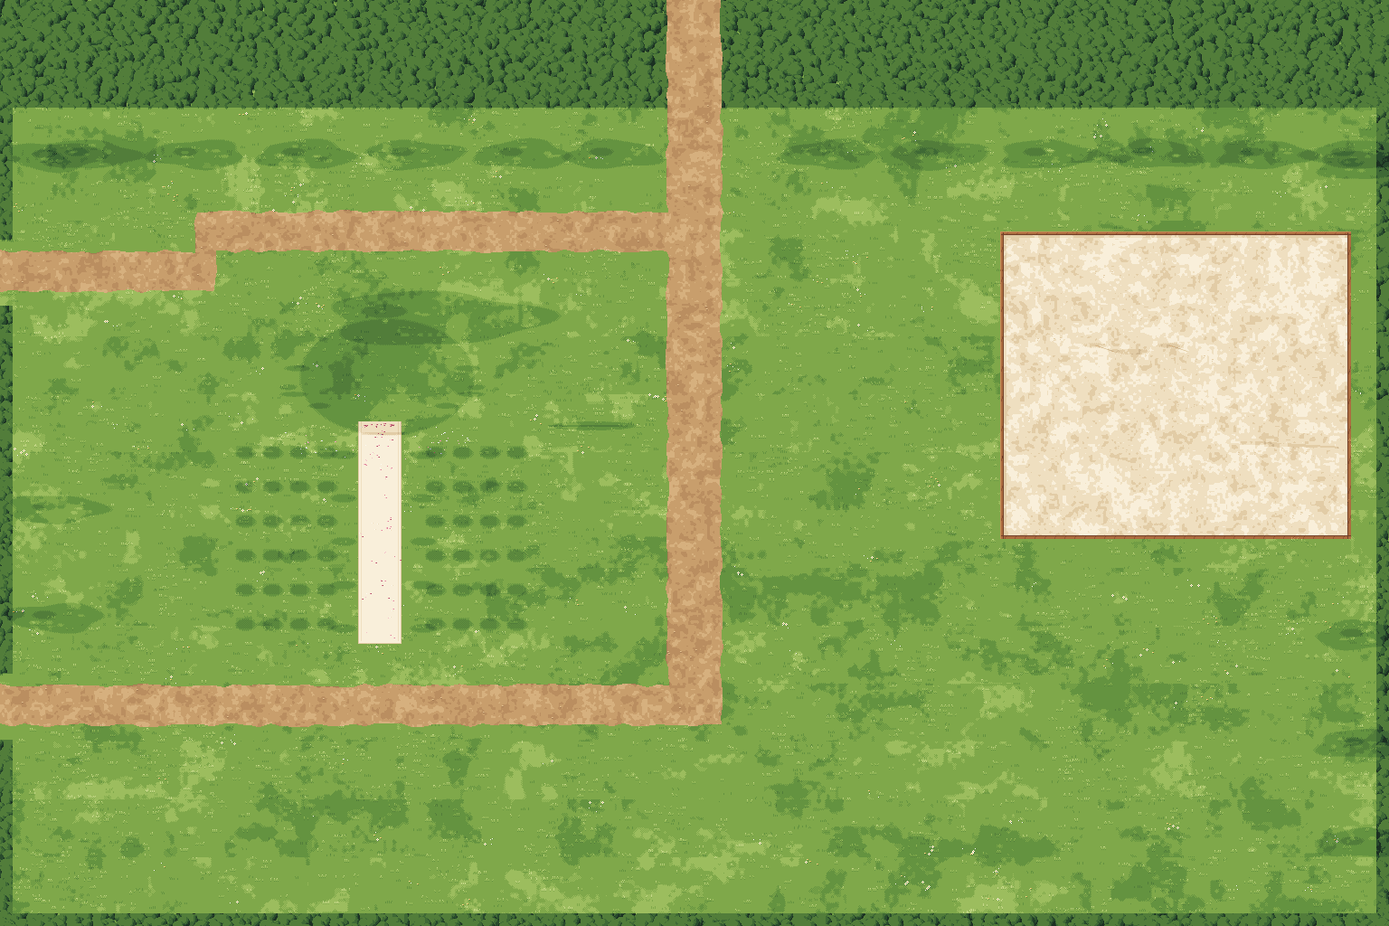
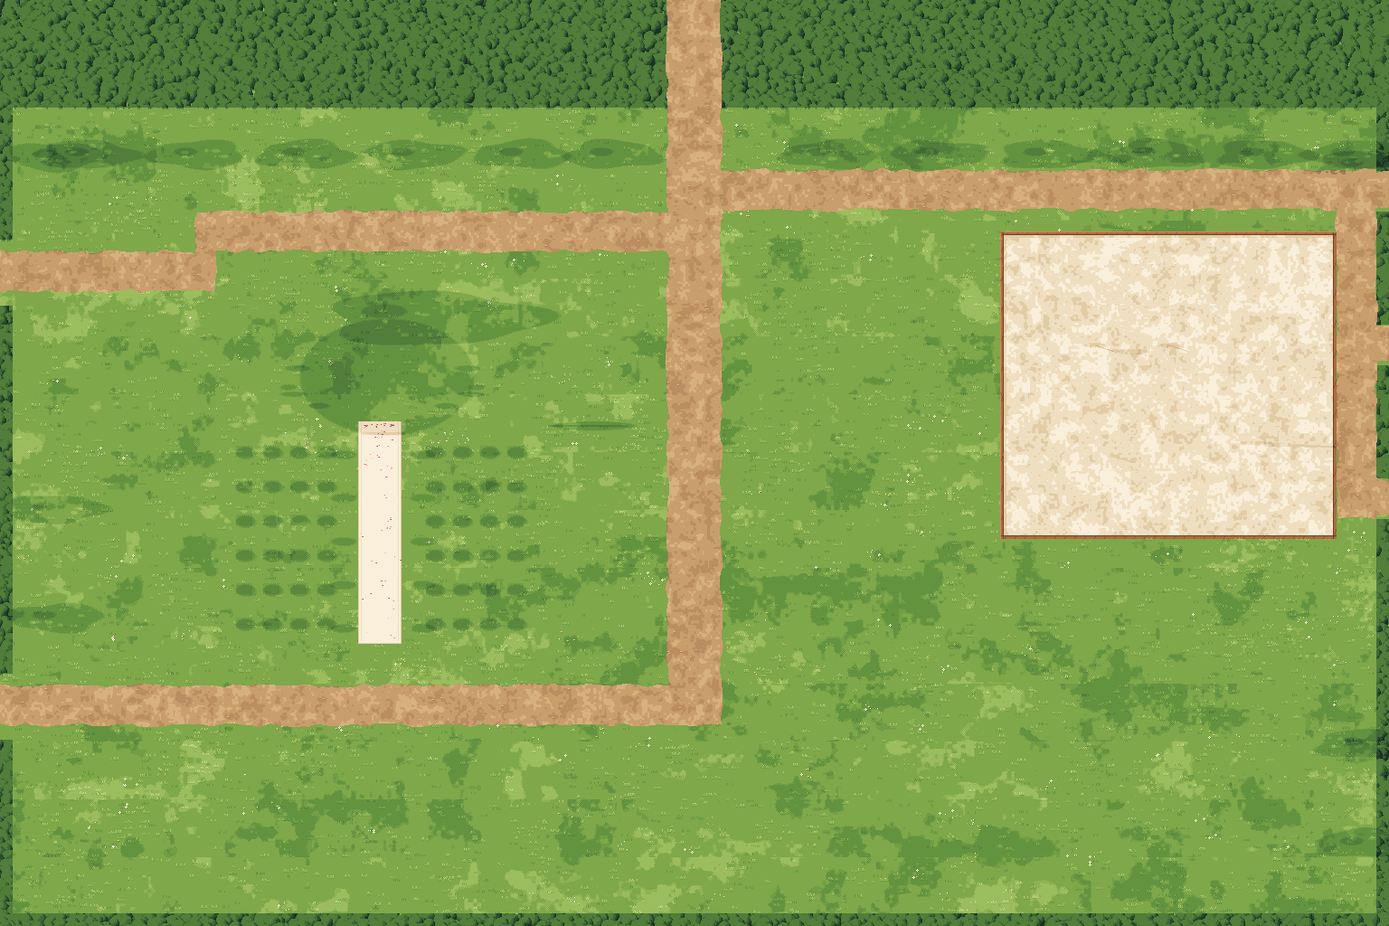
第 65 版接着修（01 G 定，等 03 测过一起出码）：服务员从西门进出、西门补门框、草坪东边三个口拉开接碎石小路
- 宴会厅服务员改从西墙那道门（通后厅、厨房）端菜进出：ambience_55.json 服务员门 (1466,1289) → (70,1300)，生成脚本同步
- 宴会厅西墙那道门照东侧门的样子用代码画门框门板（layered_hall._west_door，量的东侧门五层颜色，左右对称；底图不动，门在东墙就不画）
- 草坪东边三个口拉开到 y 210、380、550：拿掉第三个口上的 tree_28，沙坑东边收窄 16，画一段碎石小路（中间南北路 → 沙坑北边 → 顺东边往南），
  东边灌木边只在三个口留缺口；口挪进缺口里头、圈 18，顺着小路走不会误进；两个口到了站在小路上；草坪脚本核对快照换成现在的布局（换前核过重出图一样）
- 草坪测试照新口改；全套客户端 78 过，草坪尺寸表红 0
- 回执补「出码以后接着修」一节（含 03 写的、挪过坐标的 7 份测试清单）

diff --git a/godot/tools/pixel_art/lawn.py b/godot/tools/pixel_art/lawn.py
@@ -1600,7 +1600,7 @@ TREE_SPECIES = {
     "tree_22": "gh", "tree_27": "gh",
     "tree_13": "zh", "tree_14": "gh", "tree_15": "zw", "tree_16": "zh", "tree_17": "gh", "tree_18": "zh",
     "tree_19": "zw", "tree_20": "zh", "tree_21": "gh",
-    "tree_24": "zh", "tree_25": "gh", "tree_28": "zh", "tree_29": "zw", "tree_30": "gh",
+    "tree_24": "zh", "tree_25": "gh", "tree_29": "zw", "tree_30": "gh",   # tree_28 10/4 方案 C 拿掉（草坪东边第三个口）
     "wed_tree": "zh",
 }
 
@@ -1631,10 +1631,14 @@ def in_rects(x, y, rects):
     return False
 
 
+# 10/4 方案 C（01 G 定）：草坪去后厅、西餐厨房、喷泉广场的三个口在东边（y 210、380、550），东边灌木边在三个口那儿留缺口；
+# 加一段碎石小路接到原来的路上——从中间那条南北路往东、沿沙坑北边到东边，再顺着东边往南到第三个口；沙坑东边收窄 16 给这条路
 SHRUB = [[0, 0, 740, 116], [796, 0, 1536, 116], [0, 116, 14, 262], [0, 338, 14, 742], [0, 818, 14, 1024],
-         [1522, 116, 1536, 1024], [0, 1010, 1536, 1024]]
-PATHS = [[0, 758, 798, 802], [738, 0, 798, 802], [0, 278, 238, 322], [216, 234, 742, 278], [216, 274, 238, 322]]
-SAND = [1106, 256, 1494, 596]
+         [1522, 116, 1536, 186], [1522, 234, 1536, 356], [1522, 404, 1536, 526], [1522, 574, 1536, 1024], [0, 1010, 1536, 1024]]
+PATHS = [[0, 758, 798, 802], [738, 0, 798, 802], [0, 278, 238, 322], [216, 234, 742, 278], [216, 274, 238, 322],
+         [798, 188, 1522, 232], [1478, 188, 1522, 574],
+         [1508, 190, 1536, 230], [1508, 360, 1536, 400], [1508, 530, 1536, 570]]   # 最后三截穿过灌木边缺口到画布边（三个口）
+SAND = [1106, 256, 1478, 596]
 
 
 def background():
@@ -2099,7 +2103,7 @@ def main():
         compose(room, None, items).save(os.path.join(PREVIEW, "lawn_full.png"))
 
 
-LAYOUT_SNAPSHOT = r'''{"flat":[[0,0,1536,1024],[0,116,1536,148],[0,244,1536,276],[0,372,1536,404],[0,500,1536,532],[0,628,1536,660],[0,756,1536,788],[0,884,1536,916],[0,0,740,116],[796,0,1536,116],[0,116,14,262],[0,338,14,742],[0,818,14,1024],[1522,116,1536,1024],[0,1010,1536,1024],[0,758,798,802],[0,762,794,798],[738,0,798,802],[742,0,794,798],[0,278,238,322],[0,282,234,318],[216,234,742,278],[220,238,742,274],[220,274,234,318],[1106,256,1494,596],[1110,260,1490,592]],"items":{"chair_0_L1":{"h":46,"rect":[349,492,371,506],"top":"#f4f1ea","type":"box"},"chair_0_L2":{"h":46,"rect":[319,492,341,506],"top":"#f4f1ea","type":"box"},"chair_0_L3":{"h":46,"rect":[289,492,311,506],"top":"#f4f1ea","type":"box"},"chair_0_L4":{"h":46,"rect":[259,492,281,506],"top":"#f4f1ea","type":"box"},"chair_0_R1":{"h":46,"rect":[469,492,491,506],"top":"#f4f1ea","type":"box"},"chair_0_R2":{"h":46,"rect":[499,492,521,506],"top":"#f4f1ea","type":"box"},"chair_0_R3":{"h":46,"rect":[529,492,551,506],"top":"#f4f1ea","type":"box"},"chair_0_R4":{"h":46,"rect":[559,492,581,506],"top":"#f4f1ea","type":"box"},"chair_1_L1":{"h":46,"rect":[349,530,371,544],"top":"#f4f1ea","type":"box"},"chair_1_L2":{"h":46,"rect":[319,530,341,544],"top":"#f4f1ea","type":"box"},"chair_1_L3":{"h":46,"rect":[289,530,311,544],"top":"#f4f1ea","type":"box"},"chair_1_L4":{"h":46,"rect":[259,530,281,544],"top":"#f4f1ea","type":"box"},"chair_1_R1":{"h":46,"rect":[469,530,491,544],"top":"#f4f1ea","type":"box"},"chair_1_R2":{"h":46,"rect":[499,530,521,544],"top":"#f4f1ea","type":"box"},"chair_1_R3":{"h":46,"rect":[529,530,551,544],"top":"#f4f1ea","type":"box"},"chair_1_R4":{"h":46,"rect":[559,530,581,544],"top":"#f4f1ea","type":"box"},"chair_2_L1":{"h":46,"rect":[349,568,371,582],"top":"#f4f1ea","type":"box"},"chair_2_L2":{"h":46,"rect":[319,568,341,582],"top":"#f4f1ea","type":"box"},"chair_2_L3":{"h":46,"rect":[289,568,311,582],"top":"#f4f1ea","type":"box"},"chair_2_L4":{"h":46,"rect":[259,568,281,582],"top":"#f4f1ea","type":"box"},"chair_2_R1":{"h":46,"rect":[469,568,491,582],"top":"#f4f1ea","type":"box"},"chair_2_R2":{"h":46,"rect":[499,568,521,582],"top":"#f4f1ea","type":"box"},"chair_2_R3":{"h":46,"rect":[529,568,551,582],"top":"#f4f1ea","type":"box"},"chair_2_R4":{"h":46,"rect":[559,568,581,582],"top":"#f4f1ea","type":"box"},"chair_3_L1":{"h":46,"rect":[349,606,371,620],"top":"#f4f1ea","type":"box"},"chair_3_L2":{"h":46,"rect":[319,606,341,620],"top":"#f4f1ea","type":"box"},"chair_3_L3":{"h":46,"rect":[289,606,311,620],"top":"#f4f1ea","type":"box"},"chair_3_L4":{"h":46,"rect":[259,606,281,620],"top":"#f4f1ea","type":"box"},"chair_3_R1":{"h":46,"rect":[469,606,491,620],"top":"#f4f1ea","type":"box"},"chair_3_R2":{"h":46,"rect":[499,606,521,620],"top":"#f4f1ea","type":"box"},"chair_3_R3":{"h":46,"rect":[529,606,551,620],"top":"#f4f1ea","type":"box"},"chair_3_R4":{"h":46,"rect":[559,606,581,620],"top":"#f4f1ea","type":"box"},"chair_4_L1":{"h":46,"rect":[349,644,371,658],"top":"#f4f1ea","type":"box"},"chair_4_L2":{"h":46,"rect":[319,644,341,658],"top":"#f4f1ea","type":"box"},"chair_4_L3":{"h":46,"rect":[289,644,311,658],"top":"#f4f1ea","type":"box"},"chair_4_L4":{"h":46,"rect":[259,644,281,658],"top":"#f4f1ea","type":"box"},"chair_4_R1":{"h":46,"rect":[469,644,491,658],"top":"#f4f1ea","type":"box"},"chair_4_R2":{"h":46,"rect":[499,644,521,658],"top":"#f4f1ea","type":"box"},"chair_4_R3":{"h":46,"rect":[529,644,551,658],"top":"#f4f1ea","type":"box"},"chair_4_R4":{"h":46,"rect":[559,644,581,658],"top":"#f4f1ea","type":"box"},"chair_5_L1":{"h":46,"rect":[349,682,371,696],"top":"#f4f1ea","type":"box"},"chair_5_L2":{"h":46,"rect":[319,682,341,696],"top":"#f4f1ea","type":"box"},"chair_5_L3":{"h":46,"rect":[289,682,311,696],"top":"#f4f1ea","type":"box"},"chair_5_L4":{"h":46,"rect":[259,682,281,696],"top":"#f4f1ea","type":"box"},"chair_5_R1":{"h":46,"rect":[469,682,491,696],"top":"#f4f1ea","type":"box"},"chair_5_R2":{"h":46,"rect":[499,682,521,696],"top":"#f4f1ea","type":"box"},"chair_5_R3":{"h":46,"rect":[529,682,551,696],"top":"#f4f1ea","type":"box"},"chair_5_R4":{"h":46,"rect":[559,682,581,696],"top":"#f4f1ea","type":"box"},"dessert_table":{"deco":[{"color":"#f7efe2","rect":[615,396,641,408]},{"color":"#f2a7c3","rect":[618,408,638,422]},{"color":"#f7efe2","rect":[613,422,643,432]},{"color":"#f2d98a","rect":[663,398,673,406]},{"color":"#f2d98a","rect":[659,406,677,416]},{"color":"#f2d98a","rect":[655,416,681,428]}],"h":36,"rect":[606,444,692,470],"top":"#ffffff","type":"box"},"hedge_1":{"deco":[{"color":"#fbf7ee","rect":[368,468,373,472]},{"color":"#fbf7ee","rect":[378,470,383,474]},{"color":"#f2a7c3","rect":[373,476,378,480]}],"h":29,"rect":[364,494,388,504],"top":"#6a9a5c","type":"box"},"hedge_10":{"deco":[{"color":"#fbf7ee","rect":[456,660,461,664]},{"color":"#fbf7ee","rect":[466,662,471,666]},{"color":"#f2a7c3","rect":[461,668,466,672]}],"h":29,"rect":[452,686,476,696],"top":"#6a9a5c","type":"box"},"hedge_2":{"deco":[{"color":"#fbf7ee","rect":[456,468,461,472]},{"color":"#fbf7ee","rect":[466,470,471,474]},{"color":"#f2a7c3","rect":[461,476,466,480]}],"h":29,"rect":[452,494,476,504],"top":"#6a9a5c","type":"box"},"hedge_3":{"deco":[{"color":"#fbf7ee","rect":[368,516,373,520]},{"color":"#fbf7ee","rect":[378,518,383,522]},{"color":"#f2a7c3","rect":[373,524,378,528]}],"h":29,"rect":[364,542,388,552],"top":"#6a9a5c","type":"box"},"hedge_4":{"deco":[{"color":"#fbf7ee","rect":[456,516,461,520]},{"color":"#fbf7ee","rect":[466,518,471,522]},{"color":"#f2a7c3","rect":[461,524,466,528]}],"h":29,"rect":[452,542,476,552],"top":"#6a9a5c","type":"box"},"hedge_5":{"deco":[{"color":"#fbf7ee","rect":[368,564,373,568]},{"color":"#fbf7ee","rect":[378,566,383,570]},{"color":"#f2a7c3","rect":[373,572,378,576]}],"h":29,"rect":[364,590,388,600],"top":"#6a9a5c","type":"box"},"hedge_6":{"deco":[{"color":"#fbf7ee","rect":[456,564,461,568]},{"color":"#fbf7ee","rect":[466,566,471,570]},{"color":"#f2a7c3","rect":[461,572,466,576]}],"h":29,"rect":[452,590,476,600],"top":"#6a9a5c","type":"box"},"hedge_7":{"deco":[{"color":"#fbf7ee","rect":[368,612,373,616]},{"color":"#fbf7ee","rect":[378,614,383,618]},{"color":"#f2a7c3","rect":[373,620,378,624]}],"h":29,"rect":[364,638,388,648],"top":"#6a9a5c","type":"box"},"hedge_8":{"deco":[{"color":"#fbf7ee","rect":[456,612,461,616]},{"color":"#fbf7ee","rect":[466,614,471,618]},{"color":"#f2a7c3","rect":[461,620,466,624]}],"h":29,"rect":[452,638,476,648],"top":"#6a9a5c","type":"box"},"hedge_9":{"deco":[{"color":"#fbf7ee","rect":[368,660,373,664]},{"color":"#fbf7ee","rect":[378,662,383,666]},{"color":"#f2a7c3","rect":[373,668,378,672]}],"h":29,"rect":[364,686,388,696],"top":"#6a9a5c","type":"box"},"slide_chute":{"block":[1396,440,1474,494],"foot":494,"pts":[[1396,398],[1474,480],[1474,494],[1396,418]],"type":"poly"},"slide_tower":{"h":72,"rect":[1372,470,1396,490],"top":"#c0392b","type":"box"},"swing_bar":{"foot":382,"thick":6,"top":270,"type":"beam","x0":1204,"x1":1296},"swing_post_e":{"h":104,"rect":[1288,374,1294,382],"top":"#6d4a38","type":"box"},"swing_post_w":{"h":104,"rect":[1206,374,1212,382],"top":"#6d4a38","type":"box"},"swing_rope_e":{"foot":386,"thick":84,"top":276,"type":"beam","x0":1262,"x1":1264},"swing_rope_w":{"foot":386,"thick":84,"top":276,"type":"beam","x0":1236,"x1":1238},"swing_seat":{"foot":387,"thick":6,"top":358,"type":"beam","x0":1232,"x1":1268},"tree_0":{"h":252,"type":"tree","w":120,"x":80,"y":168},"tree_1":{"h":252,"type":"tree","w":120,"x":200,"y":168},"tree_10":{"h":252,"type":"tree","w":120,"x":1380,"y":168},"tree_11":{"h":252,"type":"tree","w":120,"x":1480,"y":168},"tree_13":{"h":252,"type":"tree","w":120,"x":220,"y":1090},"tree_14":{"h":252,"type":"tree","w":120,"x":360,"y":1090},"tree_15":{"h":252,"type":"tree","w":120,"x":500,"y":1090},"tree_16":{"h":252,"type":"tree","w":120,"x":640,"y":1090},"tree_17":{"h":252,"type":"tree","w":120,"x":900,"y":1090},"tree_18":{"h":252,"type":"tree","w":120,"x":1040,"y":1090},"tree_19":{"h":252,"type":"tree","w":120,"x":1180,"y":1090},"tree_2":{"h":252,"type":"tree","w":120,"x":320,"y":168},"tree_20":{"h":252,"type":"tree","w":120,"x":1320,"y":1090},"tree_21":{"h":252,"type":"tree","w":120,"x":1460,"y":1090},"tree_22":{"h":252,"type":"tree","w":120,"x":44,"y":170},"tree_24":{"h":252,"type":"tree","w":120,"x":44,"y":560},"tree_25":{"h":252,"type":"tree","w":120,"x":44,"y":680},"tree_27":{"h":252,"type":"tree","w":120,"x":1490,"y":180},"tree_28":{"h":252,"type":"tree","w":120,"x":1490,"y":700},"tree_29":{"h":252,"type":"tree","w":120,"x":1490,"y":820},"tree_3":{"h":252,"type":"tree","w":120,"x":440,"y":168},"tree_30":{"h":252,"type":"tree","w":120,"x":1490,"y":930},"tree_4":{"h":252,"type":"tree","w":120,"x":560,"y":168},"tree_5":{"h":252,"type":"tree","w":120,"x":660,"y":168},"tree_6":{"h":252,"type":"tree","w":120,"x":900,"y":168},"tree_7":{"h":252,"type":"tree","w":120,"x":1020,"y":168},"tree_8":{"h":252,"type":"tree","w":120,"x":1140,"y":168},"tree_9":{"h":252,"type":"tree","w":120,"x":1260,"y":168},"wed_drape_e":{"foot":345,"pts":[[438,206],[458,206],[530,432],[506,432]],"type":"poly"},"wed_drape_top":{"foot":345,"pts":[[346,198],[494,198],[494,206],[420,238],[346,206]],"type":"poly"},"wed_drape_w":{"foot":345,"pts":[[382,206],[402,206],[334,432],[310,432]],"type":"poly"},"wed_flowers":{"e":[[326,402,14,9],[514,402,14,9],[350,444,12,8],[490,444,12,8],[316,424,9,7],[524,424,9,7]],"type":"puffs","y":349},"wed_leaves":{"e":[[334,412,8,6],[506,412,8,6],[358,454,7,5],[482,454,7,5]],"type":"puffs","y":349},"wed_stage":{"foot":348,"h":14,"rx":96,"ry":64,"top":"#f4f1ea","type":"cyl","x":420,"y":412},"wed_tree":{"h":336,"type":"tree","w":280,"x":420,"y":344}},"npcs":{"bridesmaid_1":[320,454],"bridesmaid_2":[296,478],"flower_kid_1":[394,490],"flower_kid_2":[446,490],"groomsman_1":[520,454],"groomsman_2":[544,478],"kid_1":[1250,364],"kid_2":[1352,526],"kid_3":[1176,470],"kid_4":[1290,604],"wed_guest_01":[330,509],"wed_guest_02":[300,509],"wed_guest_03":[270,509],"wed_guest_04":[510,509],"wed_guest_05":[540,509],"wed_guest_06":[570,509],"wed_guest_07":[330,547],"wed_guest_08":[300,547],"wed_guest_09":[270,547],"wed_guest_10":[510,547],"wed_guest_11":[540,547],"wed_guest_12":[570,547],"wed_guest_13":[330,585],"wed_guest_14":[300,585],"wed_guest_15":[270,585],"wed_guest_16":[510,585],"wed_guest_17":[540,585],"wed_guest_18":[570,585],"wed_guest_19":[330,623],"wed_guest_20":[300,623],"wed_guest_21":[270,623],"wed_guest_22":[510,623],"wed_guest_23":[540,623],"wed_guest_24":[570,623]},"points":{"kids":[1300,520,70],"to_backhall":[40,300,50],"to_entrance":[40,780,50],"to_orchard":[768,160,60]},"size":[1536,1024],"walk":[[[16,124],[1520,124],[1520,996],[16,996]]]}'''
+LAYOUT_SNAPSHOT = r'''{"flat":[[0,0,1536,1024],[0,116,1536,148],[0,244,1536,276],[0,372,1536,404],[0,500,1536,532],[0,628,1536,660],[0,756,1536,788],[0,884,1536,916],[0,0,740,116],[796,0,1536,116],[0,116,14,262],[0,338,14,742],[0,818,14,1024],[1522,116,1536,186],[1522,234,1536,356],[1522,404,1536,526],[1522,574,1536,1024],[0,1010,1536,1024],[0,758,798,802],[0,762,794,798],[738,0,798,802],[742,0,794,798],[0,278,238,322],[0,282,234,318],[216,234,742,278],[220,238,742,274],[220,274,234,318],[798,188,1522,232],[798,192,1522,228],[1478,188,1522,574],[1508,190,1536,230],[1508,360,1536,400],[1508,530,1536,570],[1482,192,1518,570],[1512,194,1536,226],[1512,364,1536,396],[1512,534,1536,566],[1106,256,1478,596],[1110,260,1474,592]],"items":{"chair_0_L1":{"h":46,"rect":[349,492,371,506],"top":"#f4f1ea","type":"box"},"chair_0_L2":{"h":46,"rect":[319,492,341,506],"top":"#f4f1ea","type":"box"},"chair_0_L3":{"h":46,"rect":[289,492,311,506],"top":"#f4f1ea","type":"box"},"chair_0_L4":{"h":46,"rect":[259,492,281,506],"top":"#f4f1ea","type":"box"},"chair_0_R1":{"h":46,"rect":[469,492,491,506],"top":"#f4f1ea","type":"box"},"chair_0_R2":{"h":46,"rect":[499,492,521,506],"top":"#f4f1ea","type":"box"},"chair_0_R3":{"h":46,"rect":[529,492,551,506],"top":"#f4f1ea","type":"box"},"chair_0_R4":{"h":46,"rect":[559,492,581,506],"top":"#f4f1ea","type":"box"},"chair_1_L1":{"h":46,"rect":[349,530,371,544],"top":"#f4f1ea","type":"box"},"chair_1_L2":{"h":46,"rect":[319,530,341,544],"top":"#f4f1ea","type":"box"},"chair_1_L3":{"h":46,"rect":[289,530,311,544],"top":"#f4f1ea","type":"box"},"chair_1_L4":{"h":46,"rect":[259,530,281,544],"top":"#f4f1ea","type":"box"},"chair_1_R1":{"h":46,"rect":[469,530,491,544],"top":"#f4f1ea","type":"box"},"chair_1_R2":{"h":46,"rect":[499,530,521,544],"top":"#f4f1ea","type":"box"},"chair_1_R3":{"h":46,"rect":[529,530,551,544],"top":"#f4f1ea","type":"box"},"chair_1_R4":{"h":46,"rect":[559,530,581,544],"top":"#f4f1ea","type":"box"},"chair_2_L1":{"h":46,"rect":[349,568,371,582],"top":"#f4f1ea","type":"box"},"chair_2_L2":{"h":46,"rect":[319,568,341,582],"top":"#f4f1ea","type":"box"},"chair_2_L3":{"h":46,"rect":[289,568,311,582],"top":"#f4f1ea","type":"box"},"chair_2_L4":{"h":46,"rect":[259,568,281,582],"top":"#f4f1ea","type":"box"},"chair_2_R1":{"h":46,"rect":[469,568,491,582],"top":"#f4f1ea","type":"box"},"chair_2_R2":{"h":46,"rect":[499,568,521,582],"top":"#f4f1ea","type":"box"},"chair_2_R3":{"h":46,"rect":[529,568,551,582],"top":"#f4f1ea","type":"box"},"chair_2_R4":{"h":46,"rect":[559,568,581,582],"top":"#f4f1ea","type":"box"},"chair_3_L1":{"h":46,"rect":[349,606,371,620],"top":"#f4f1ea","type":"box"},"chair_3_L2":{"h":46,"rect":[319,606,341,620],"top":"#f4f1ea","type":"box"},"chair_3_L3":{"h":46,"rect":[289,606,311,620],"top":"#f4f1ea","type":"box"},"chair_3_L4":{"h":46,"rect":[259,606,281,620],"top":"#f4f1ea","type":"box"},"chair_3_R1":{"h":46,"rect":[469,606,491,620],"top":"#f4f1ea","type":"box"},"chair_3_R2":{"h":46,"rect":[499,606,521,620],"top":"#f4f1ea","type":"box"},"chair_3_R3":{"h":46,"rect":[529,606,551,620],"top":"#f4f1ea","type":"box"},"chair_3_R4":{"h":46,"rect":[559,606,581,620],"top":"#f4f1ea","type":"box"},"chair_4_L1":{"h":46,"rect":[349,644,371,658],"top":"#f4f1ea","type":"box"},"chair_4_L2":{"h":46,"rect":[319,644,341,658],"top":"#f4f1ea","type":"box"},"chair_4_L3":{"h":46,"rect":[289,644,311,658],"top":"#f4f1ea","type":"box"},"chair_4_L4":{"h":46,"rect":[259,644,281,658],"top":"#f4f1ea","type":"box"},"chair_4_R1":{"h":46,"rect":[469,644,491,658],"top":"#f4f1ea","type":"box"},"chair_4_R2":{"h":46,"rect":[499,644,521,658],"top":"#f4f1ea","type":"box"},"chair_4_R3":{"h":46,"rect":[529,644,551,658],"top":"#f4f1ea","type":"box"},"chair_4_R4":{"h":46,"rect":[559,644,581,658],"top":"#f4f1ea","type":"box"},"chair_5_L1":{"h":46,"rect":[349,682,371,696],"top":"#f4f1ea","type":"box"},"chair_5_L2":{"h":46,"rect":[319,682,341,696],"top":"#f4f1ea","type":"box"},"chair_5_L3":{"h":46,"rect":[289,682,311,696],"top":"#f4f1ea","type":"box"},"chair_5_L4":{"h":46,"rect":[259,682,281,696],"top":"#f4f1ea","type":"box"},"chair_5_R1":{"h":46,"rect":[469,682,491,696],"top":"#f4f1ea","type":"box"},"chair_5_R2":{"h":46,"rect":[499,682,521,696],"top":"#f4f1ea","type":"box"},"chair_5_R3":{"h":46,"rect":[529,682,551,696],"top":"#f4f1ea","type":"box"},"chair_5_R4":{"h":46,"rect":[559,682,581,696],"top":"#f4f1ea","type":"box"},"dessert_table":{"deco":[{"color":"#f7efe2","rect":[615,396,641,408]},{"color":"#f2a7c3","rect":[618,408,638,422]},{"color":"#f7efe2","rect":[613,422,643,432]},{"color":"#f2d98a","rect":[663,398,673,406]},{"color":"#f2d98a","rect":[659,406,677,416]},{"color":"#f2d98a","rect":[655,416,681,428]}],"h":36,"rect":[606,444,692,470],"top":"#ffffff","type":"box"},"hedge_1":{"deco":[{"color":"#fbf7ee","rect":[368,468,373,472]},{"color":"#fbf7ee","rect":[378,470,383,474]},{"color":"#f2a7c3","rect":[373,476,378,480]}],"h":29,"rect":[364,494,388,504],"top":"#6a9a5c","type":"box"},"hedge_10":{"deco":[{"color":"#fbf7ee","rect":[456,660,461,664]},{"color":"#fbf7ee","rect":[466,662,471,666]},{"color":"#f2a7c3","rect":[461,668,466,672]}],"h":29,"rect":[452,686,476,696],"top":"#6a9a5c","type":"box"},"hedge_2":{"deco":[{"color":"#fbf7ee","rect":[456,468,461,472]},{"color":"#fbf7ee","rect":[466,470,471,474]},{"color":"#f2a7c3","rect":[461,476,466,480]}],"h":29,"rect":[452,494,476,504],"top":"#6a9a5c","type":"box"},"hedge_3":{"deco":[{"color":"#fbf7ee","rect":[368,516,373,520]},{"color":"#fbf7ee","rect":[378,518,383,522]},{"color":"#f2a7c3","rect":[373,524,378,528]}],"h":29,"rect":[364,542,388,552],"top":"#6a9a5c","type":"box"},"hedge_4":{"deco":[{"color":"#fbf7ee","rect":[456,516,461,520]},{"color":"#fbf7ee","rect":[466,518,471,522]},{"color":"#f2a7c3","rect":[461,524,466,528]}],"h":29,"rect":[452,542,476,552],"top":"#6a9a5c","type":"box"},"hedge_5":{"deco":[{"color":"#fbf7ee","rect":[368,564,373,568]},{"color":"#fbf7ee","rect":[378,566,383,570]},{"color":"#f2a7c3","rect":[373,572,378,576]}],"h":29,"rect":[364,590,388,600],"top":"#6a9a5c","type":"box"},"hedge_6":{"deco":[{"color":"#fbf7ee","rect":[456,564,461,568]},{"color":"#fbf7ee","rect":[466,566,471,570]},{"color":"#f2a7c3","rect":[461,572,466,576]}],"h":29,"rect":[452,590,476,600],"top":"#6a9a5c","type":"box"},"hedge_7":{"deco":[{"color":"#fbf7ee","rect":[368,612,373,616]},{"color":"#fbf7ee","rect":[378,614,383,618]},{"color":"#f2a7c3","rect":[373,620,378,624]}],"h":29,"rect":[364,638,388,648],"top":"#6a9a5c","type":"box"},"hedge_8":{"deco":[{"color":"#fbf7ee","rect":[456,612,461,616]},{"color":"#fbf7ee","rect":[466,614,471,618]},{"color":"#f2a7c3","rect":[461,620,466,624]}],"h":29,"rect":[452,638,476,648],"top":"#6a9a5c","type":"box"},"hedge_9":{"deco":[{"color":"#fbf7ee","rect":[368,660,373,664]},{"color":"#fbf7ee","rect":[378,662,383,666]},{"color":"#f2a7c3","rect":[373,668,378,672]}],"h":29,"rect":[364,686,388,696],"top":"#6a9a5c","type":"box"},"slide_chute":{"block":[1396,440,1474,494],"foot":494,"pts":[[1396,398],[1474,480],[1474,494],[1396,418]],"type":"poly"},"slide_tower":{"h":72,"rect":[1372,470,1396,490],"top":"#c0392b","type":"box"},"swing_bar":{"foot":382,"thick":6,"top":270,"type":"beam","x0":1204,"x1":1296},"swing_post_e":{"h":104,"rect":[1288,374,1294,382],"top":"#6d4a38","type":"box"},"swing_post_w":{"h":104,"rect":[1206,374,1212,382],"top":"#6d4a38","type":"box"},"swing_rope_e":{"foot":386,"thick":84,"top":276,"type":"beam","x0":1262,"x1":1264},"swing_rope_w":{"foot":386,"thick":84,"top":276,"type":"beam","x0":1236,"x1":1238},"swing_seat":{"foot":387,"thick":6,"top":358,"type":"beam","x0":1232,"x1":1268},"tree_0":{"h":252,"type":"tree","w":120,"x":80,"y":168},"tree_1":{"h":252,"type":"tree","w":120,"x":200,"y":168},"tree_10":{"h":252,"type":"tree","w":120,"x":1380,"y":168},"tree_11":{"h":252,"type":"tree","w":120,"x":1480,"y":168},"tree_13":{"h":252,"type":"tree","w":120,"x":220,"y":1090},"tree_14":{"h":252,"type":"tree","w":120,"x":360,"y":1090},"tree_15":{"h":252,"type":"tree","w":120,"x":500,"y":1090},"tree_16":{"h":252,"type":"tree","w":120,"x":640,"y":1090},"tree_17":{"h":252,"type":"tree","w":120,"x":900,"y":1090},"tree_18":{"h":252,"type":"tree","w":120,"x":1040,"y":1090},"tree_19":{"h":252,"type":"tree","w":120,"x":1180,"y":1090},"tree_2":{"h":252,"type":"tree","w":120,"x":320,"y":168},"tree_20":{"h":252,"type":"tree","w":120,"x":1320,"y":1090},"tree_21":{"h":252,"type":"tree","w":120,"x":1460,"y":1090},"tree_22":{"h":252,"type":"tree","w":120,"x":44,"y":170},"tree_24":{"h":252,"type":"tree","w":120,"x":44,"y":560},"tree_25":{"h":252,"type":"tree","w":120,"x":44,"y":680},"tree_27":{"h":252,"type":"tree","w":120,"x":1490,"y":180},"tree_29":{"h":252,"type":"tree","w":120,"x":1490,"y":820},"tree_3":{"h":252,"type":"tree","w":120,"x":440,"y":168},"tree_30":{"h":252,"type":"tree","w":120,"x":1490,"y":930},"tree_4":{"h":252,"type":"tree","w":120,"x":560,"y":168},"tree_5":{"h":252,"type":"tree","w":120,"x":660,"y":168},"tree_6":{"h":252,"type":"tree","w":120,"x":900,"y":168},"tree_7":{"h":252,"type":"tree","w":120,"x":1020,"y":168},"tree_8":{"h":252,"type":"tree","w":120,"x":1140,"y":168},"tree_9":{"h":252,"type":"tree","w":120,"x":1260,"y":168},"wed_drape_e":{"foot":345,"pts":[[438,206],[458,206],[530,432],[506,432]],"type":"poly"},"wed_drape_top":{"foot":345,"pts":[[346,198],[494,198],[494,206],[420,238],[346,206]],"type":"poly"},"wed_drape_w":{"foot":345,"pts":[[382,206],[402,206],[334,432],[310,432]],"type":"poly"},"wed_flowers":{"e":[[326,402,14,9],[514,402,14,9],[350,444,12,8],[490,444,12,8],[316,424,9,7],[524,424,9,7]],"type":"puffs","y":349},"wed_leaves":{"e":[[334,412,8,6],[506,412,8,6],[358,454,7,5],[482,454,7,5]],"type":"puffs","y":349},"wed_stage":{"foot":348,"h":14,"rx":96,"ry":64,"top":"#f4f1ea","type":"cyl","x":420,"y":412},"wed_tree":{"h":336,"type":"tree","w":280,"x":420,"y":344}},"npcs":{"bridesmaid_1":[320,454],"bridesmaid_2":[296,478],"flower_kid_1":[394,490],"flower_kid_2":[446,490],"groomsman_1":[520,454],"groomsman_2":[544,478],"kid_1":[1250,364],"kid_2":[1352,526],"kid_3":[1176,470],"kid_4":[1290,604],"wed_guest_01":[330,509],"wed_guest_02":[300,509],"wed_guest_03":[270,509],"wed_guest_04":[510,509],"wed_guest_05":[540,509],"wed_guest_06":[570,509],"wed_guest_07":[330,547],"wed_guest_08":[300,547],"wed_guest_09":[270,547],"wed_guest_10":[510,547],"wed_guest_11":[540,547],"wed_guest_12":[570,547],"wed_guest_13":[330,585],"wed_guest_14":[300,585],"wed_guest_15":[270,585],"wed_guest_16":[510,585],"wed_guest_17":[540,585],"wed_guest_18":[570,585],"wed_guest_19":[330,623],"wed_guest_20":[300,623],"wed_guest_21":[270,623],"wed_guest_22":[510,623],"wed_guest_23":[540,623],"wed_guest_24":[570,623]},"points":{"kids":[1300,520,70],"to_backhall":[1528,210,18],"to_kids":[760,1000,44],"to_orchard":[768,160,60],"to_orchard_b":[140,172,50],"to_plaza":[1528,550,18],"to_wkitchen":[1528,380,18]},"size":[1536,1024],"walk":[[[16,124],[1520,124],[1520,996],[16,996]],[[1512,192],[1534,192],[1534,228],[1512,228]],[[1512,362],[1534,362],[1534,398],[1512,398]],[[1512,532],[1534,532],[1534,568],[1512,568]]]}'''
 
 if __name__ == "__main__":
     main()

diff --git a/godot/tools/layout_55/build_graybox55.py b/godot/tools/layout_55/build_graybox55.py
@@ -594,7 +594,8 @@ def main():
         "npc_tables": npc,
         "family": FAMILY,
         "relatives": RELATIVES,
-        "waiters": {"count": 6, "door": [W - 70, (d0 + d1) // 2], "speed_m": 1.5},
+        # 10/4 方案 C（01 G 定）：服务员改从西墙那道门（通后厅、厨房）进出；西门是 10/4 连图手加进 scene.json 的（(40, 1300)），这份脚本还没出它
+        "waiters": {"count": 6, "door": [70, 1300], "speed_m": 1.5},
         "petals": {"amount": 60 if (not art or ART_EXTRAS) else 0},   # 飘的花瓣：接图以后关（阿鱼 9/30）
     }
     json.dump(amb, open(AMB, "w", encoding="utf-8"), ensure_ascii=False, indent=1)

diff --git a/godot/回执/零件规格/草坪/草坪-尺寸表.md b/godot/回执/零件规格/草坪/草坪-尺寸表.md
@@ -13,4 +13,4 @@
 | 观礼白椅子（48 件） | 宽 | 22 | 0.26 | 椅子 宽（22） | 1.00 | 过 |
 | 观礼白椅子（48 件） | 高 | 46 | 0.55 | 椅子 高（46） | 1.00 | 过 |
 | 甜品台 | 宽 | 86 | 1.02 | 真实 1.8 米 → 86 | 1.00 | 过 |
-| 树（28 件） | 高 | 252 | 3.00 | 柳树、枇杷树 高（240～336） | 1.00 | 过 |
+| 树（27 件） | 高 | 252 | 3.00 | 柳树、枇杷树 高（240～336） | 1.00 | 过 |
